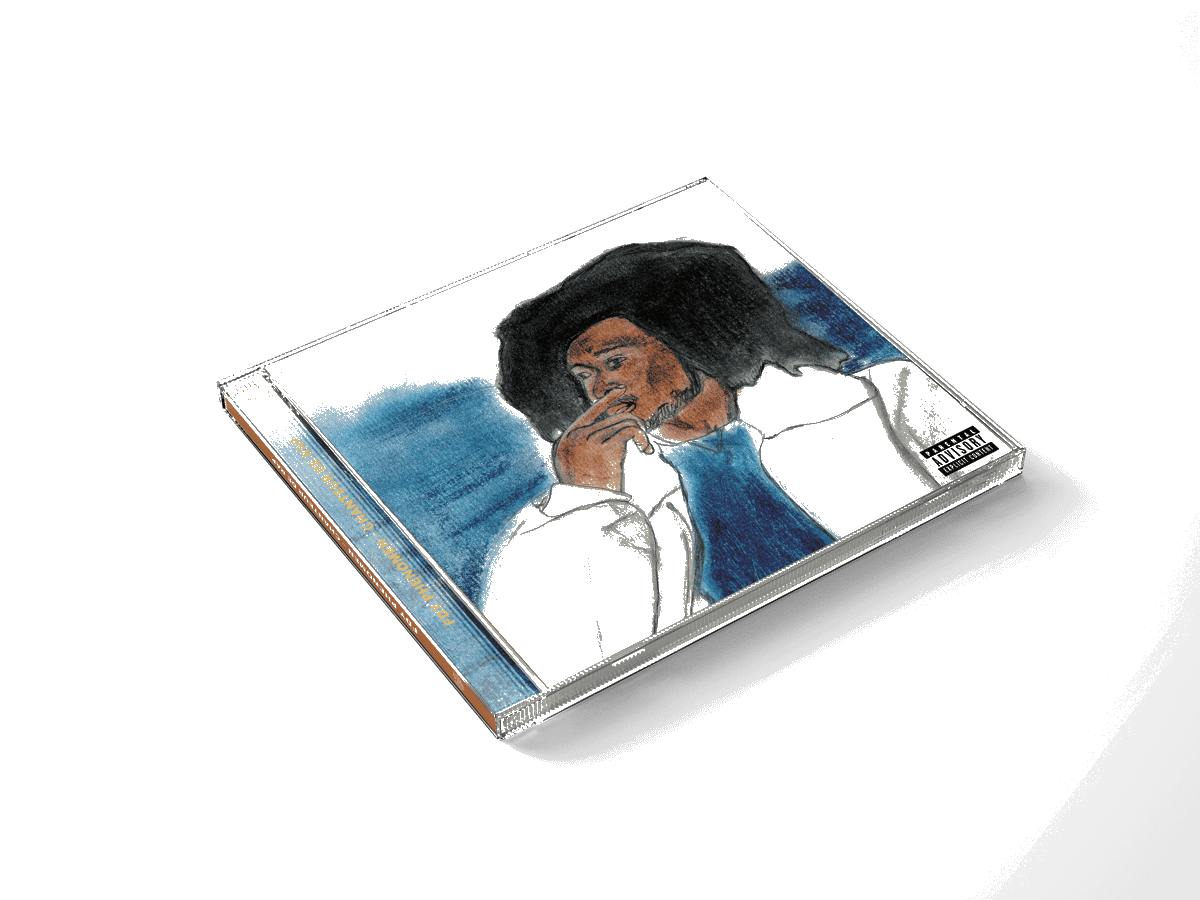
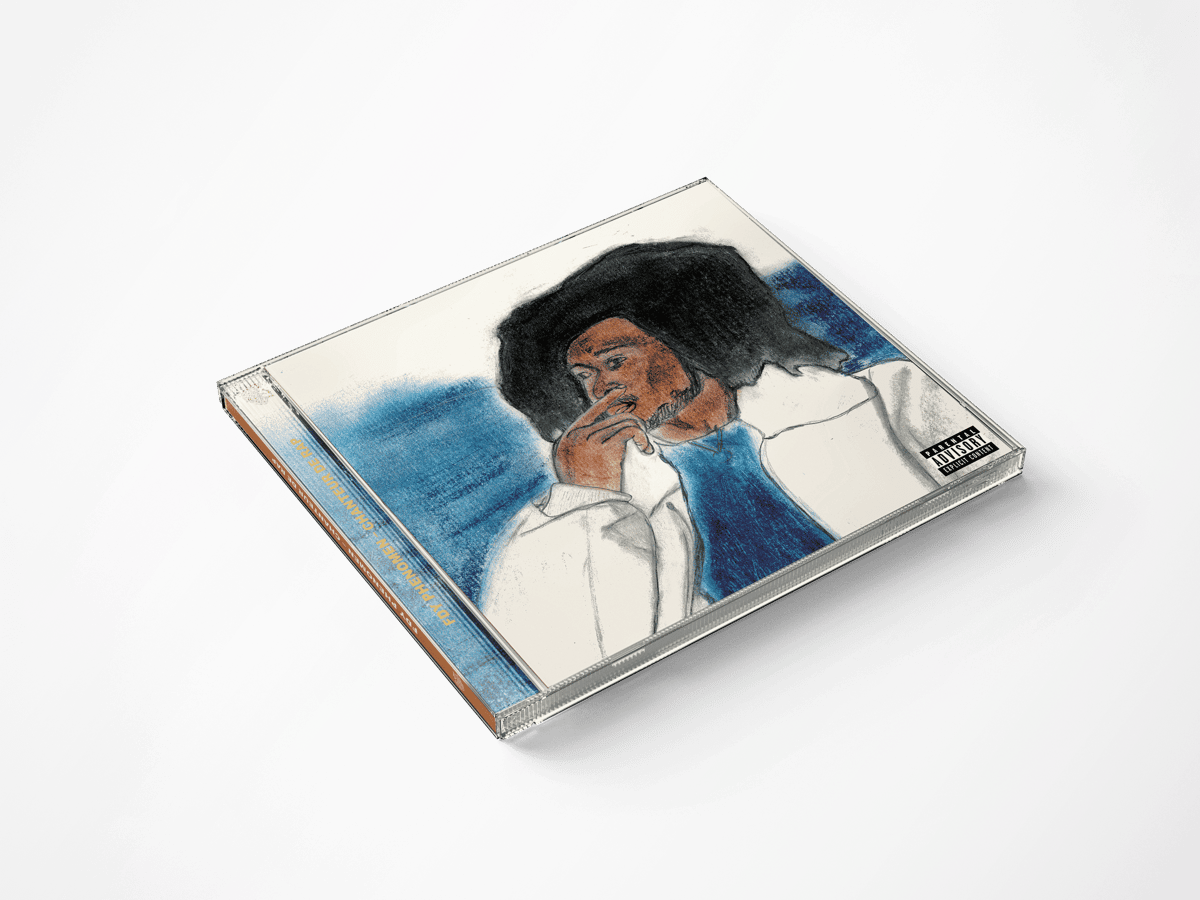
fix: fond sombre derrière le CD mockup (image intacte, fond CSS)
Au lieu de modifier l'image (ce qui l'altérait), on met un fond sombre
CSS (#1A1610) derrière la zone image du CD + object-contain avec padding
pour que le CD flotte proprement sur le fond sombre comme les vinyles.

diff --git a/src/app/(shop)/artists/[artistSlug]/[projectSlug]/page.tsx b/src/app/(shop)/artists/[artistSlug]/[projectSlug]/page.tsx
@@ -581,8 +581,8 @@ export default async function ProjectPage({ params }: ProjectPageProps) {
                         background: isPretium ? `${theme.accent}0F` : theme.cardBg,
                       }}
                     >
-                      <div className="relative aspect-square overflow-hidden">
-                        <Image src={product.image_url} alt={product.name} fill={true} className="object-cover" />
+                      <div className="relative aspect-square overflow-hidden" style={{ background: product.category === "cd" ? theme.bg : undefined }}>
+                        <Image src={product.image_url} alt={product.name} fill={true} className={product.category === "cd" ? "object-contain p-4" : "object-cover"} />
                       </div>
                       <div className="flex flex-1 flex-col p-3 sm:p-4">
                         <div className="flex items-start justify-between gap-2">

diff --git a/src/app/(shop)/page.tsx b/src/app/(shop)/page.tsx
@@ -248,8 +248,8 @@ export default async function HomePage() {
                   className="flex flex-col overflow-hidden rounded-xl border transition hover:border-white/10"
                   style={{ borderColor: "rgba(255,255,255,0.06)", background: "rgba(200,160,80,0.03)" }}
                 >
-                  <div className="relative aspect-square overflow-hidden">
-                    <Image src={product.image_url} alt={product.name} fill={true} className="object-cover" />
+                  <div className="relative aspect-square overflow-hidden" style={{ background: "#1A1610" }}>
+                    <Image src={product.image_url} alt={product.name} fill={true} className="object-contain p-4" />
                   </div>
                   <div className="flex flex-1 flex-col p-3 sm:p-4">
                     <h3 className="text-sm font-semibold text-white leading-tight">CD</h3>
